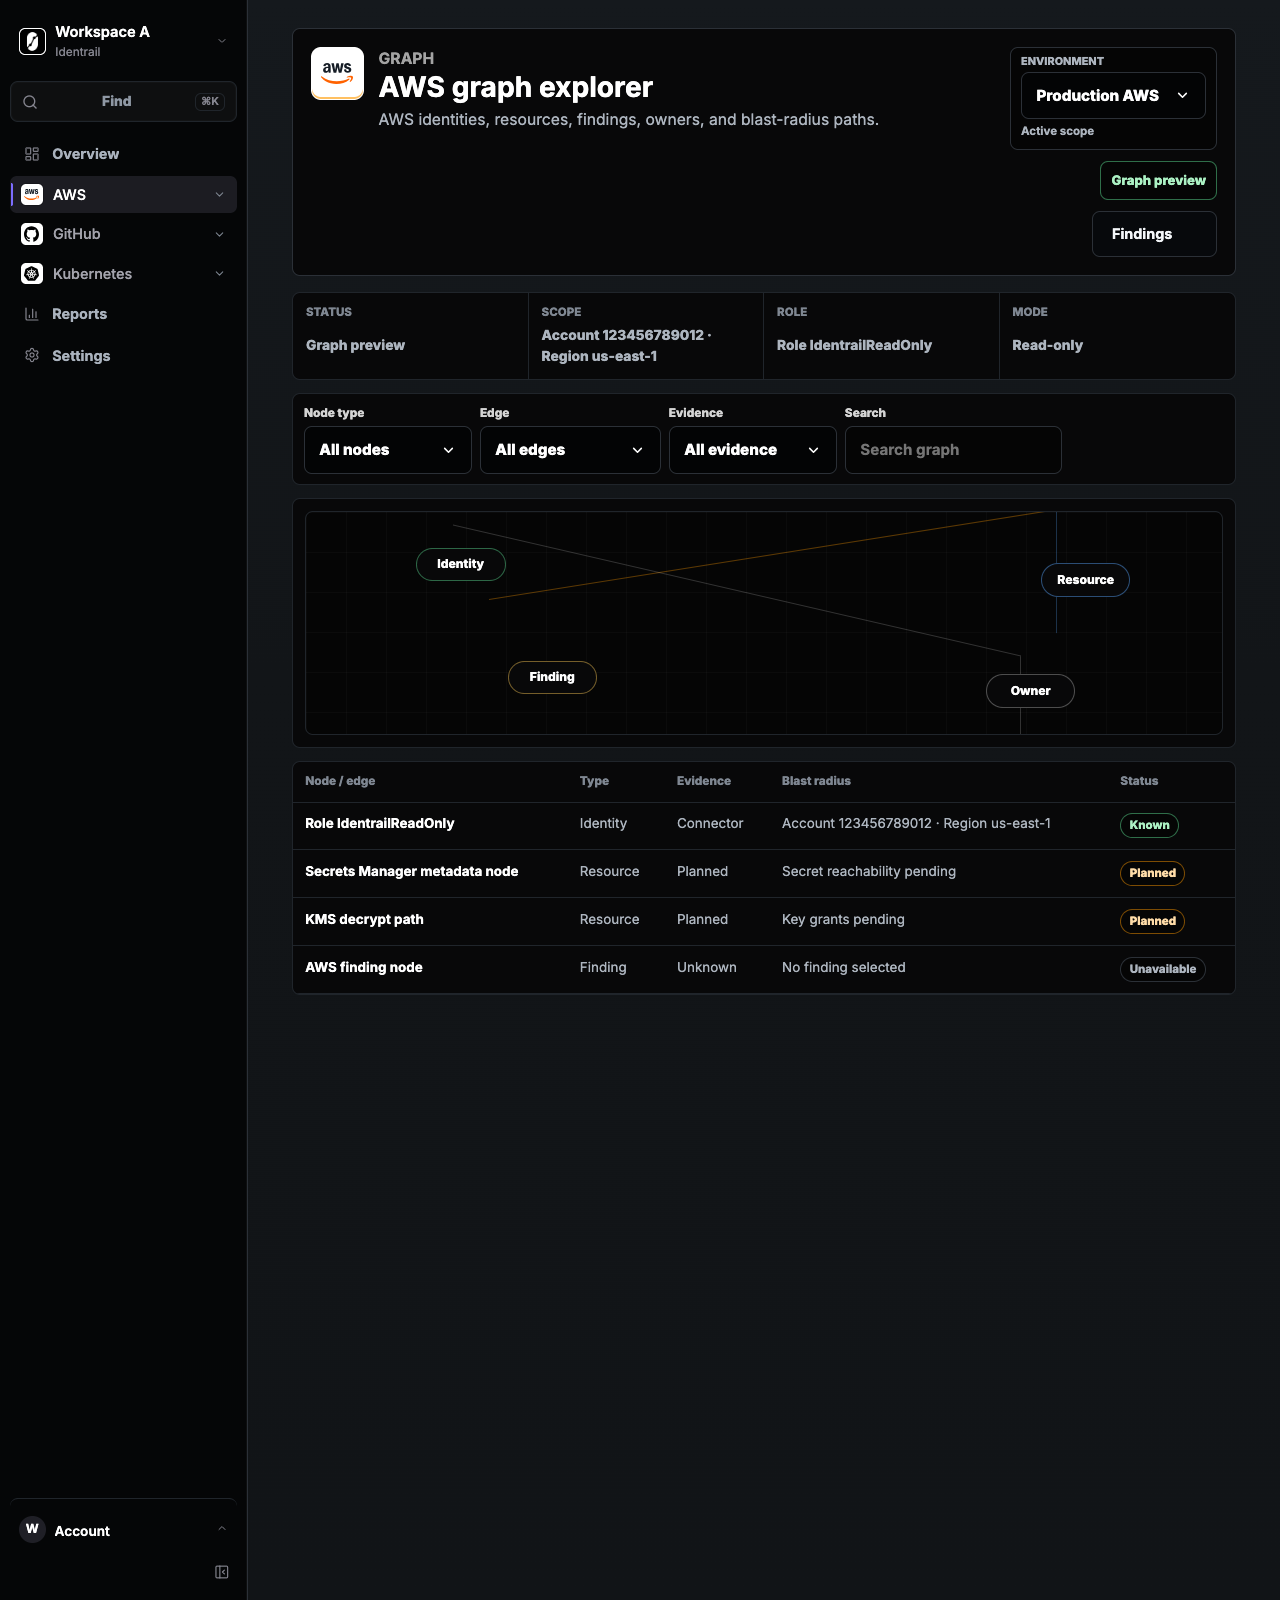
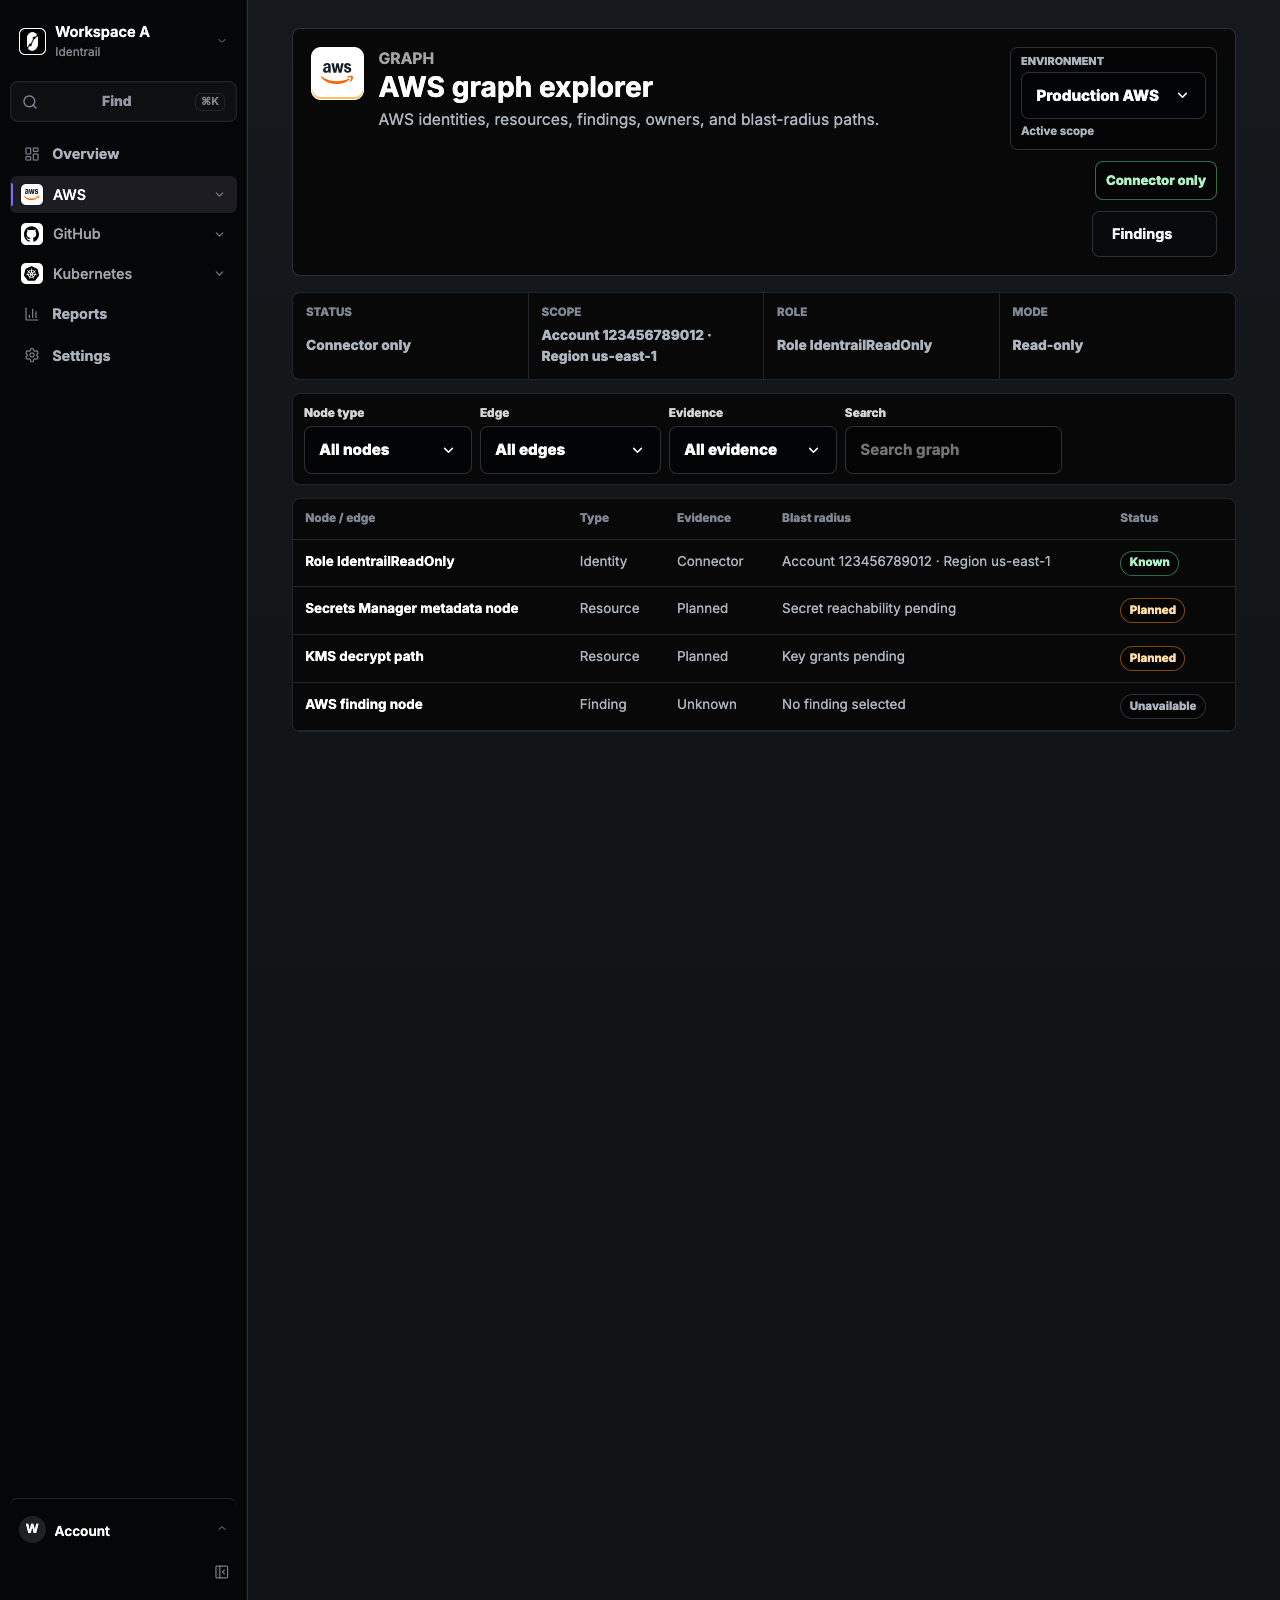
Remove AWS graph placeholder

diff --git a/web/src/styles.css b/web/src/styles.css
@@ -23246,84 +23246,6 @@ html[data-theme='light'] .idt-app-shell-screen select {
   padding: 1rem;
 }
 
-.idt-aws-risk-graph-shell {
-  border: 1px solid var(--app-border-soft);
-  border-radius: 8px;
-  padding: 0.75rem;
-  background: #080809;
-}
-
-.idt-aws-risk-graph-canvas {
-  position: relative;
-  min-height: 14rem;
-  overflow: hidden;
-  border: 1px solid var(--app-border-soft);
-  border-radius: 8px;
-  background:
-    linear-gradient(rgba(255, 255, 255, 0.025) 1px, transparent 1px) 0 0 / 2.5rem 2.5rem,
-    linear-gradient(90deg, rgba(255, 255, 255, 0.025) 1px, transparent 1px) 0 0 / 2.5rem 2.5rem,
-    #050505;
-}
-
-.idt-aws-risk-graph-canvas::before,
-.idt-aws-risk-graph-canvas::after {
-  content: '';
-  position: absolute;
-  inset: 19% 18% 25% 20%;
-  border-top: 1px solid rgba(255, 153, 0, 0.35);
-  border-right: 1px solid rgba(88, 166, 255, 0.28);
-  transform: skewY(-9deg);
-}
-
-.idt-aws-risk-graph-canvas::after {
-  inset: 35% 22% 18% 16%;
-  border-color: rgba(255, 255, 255, 0.18);
-  transform: skewY(13deg);
-}
-
-.idt-aws-risk-graph-canvas span {
-  position: absolute;
-  z-index: 1;
-  display: inline-flex;
-  align-items: center;
-  justify-content: center;
-  min-width: 5.6rem;
-  min-height: 2.1rem;
-  border: 1px solid var(--app-border);
-  border-radius: 999px;
-  padding: 0.2rem 0.65rem;
-  background: #080809;
-  color: #ffffff;
-  font-size: 0.76rem;
-  font-weight: 900;
-  text-align: center;
-  white-space: nowrap;
-}
-
-.idt-aws-risk-graph-canvas .is-identity {
-  top: 16%;
-  left: 12%;
-  border-color: rgba(88, 214, 141, 0.46);
-}
-
-.idt-aws-risk-graph-canvas .is-resource {
-  top: 23%;
-  right: 10%;
-  border-color: rgba(88, 166, 255, 0.44);
-}
-
-.idt-aws-risk-graph-canvas .is-finding {
-  bottom: 18%;
-  left: 22%;
-  border-color: rgba(245, 196, 81, 0.46);
-}
-
-.idt-aws-risk-graph-canvas .is-owner {
-  right: 16%;
-  bottom: 12%;
-  border-color: rgba(255, 255, 255, 0.28);
-}
-
 html[data-theme='light'] .idt-app-console-layout .idt-permission-preview-modal,
 html[data-theme='light'] .idt-app-console-layout .idt-permission-preview-list article,
 html[data-theme='light'] .idt-app-console-layout .idt-permission-tier {
@@ -23411,14 +23333,6 @@ html[data-theme='light'] .idt-app-console-layout .idt-permission-tier .idt-badge
     border-top: 1px solid var(--app-border-soft);
   }
 
-	  .idt-aws-risk-graph-canvas {
-	    min-height: 15rem;
-	  }
-
-  .idt-aws-risk-graph-canvas span {
-    min-width: 4.8rem;
-    font-size: 0.72rem;
-  }
 }
 
 .idt-visually-hidden {

diff --git a/web/src/productShell.tsx b/web/src/productShell.tsx
@@ -3821,7 +3821,7 @@ const AWS_RISK_OPERATION_PAGE_COPY: Record<AWSRiskOperationRouteID, AWSRiskOpera
     title: 'AWS graph explorer',
     eyebrow: 'Graph',
     description: 'AWS identities, resources, findings, owners, and blast-radius paths.',
-    statusLabel: 'Graph preview',
+    statusLabel: 'Connector only',
     currentCapability: 'Connector role anchor.',
     plannedCapability: 'Collected graph edges.',
     nextAction: 'Collect graph edges.',
@@ -4387,14 +4387,6 @@ function AWSGraphExplorerContent({
   return (
     <>
       <AWSRiskOperationFilterSet routeID="graph" filters={filters} onChange={onFiltersChange} />
-      <section className="idt-aws-risk-graph-shell" aria-label="AWS graph explorer">
-        <div className="idt-aws-risk-graph-canvas" aria-hidden="true">
-          <span className="is-identity">Identity</span>
-          <span className="is-resource">Resource</span>
-          <span className="is-finding">Finding</span>
-          <span className="is-owner">Owner</span>
-        </div>
-      </section>
       <DomainDataTable
         label="AWS graph nodes and edges"
         rows={displayedRows}

diff --git a/web/src/App.test.tsx b/web/src/App.test.tsx
@@ -1493,7 +1493,7 @@ describe('App', () => {
 
   it.each([
     ['runtime', /AWS runtime evidence/i, /Not ingesting/i],
-    ['graph', /AWS graph explorer/i, /Graph preview/i],
+    ['graph', /AWS graph explorer/i, /Connector only/i],
     ['findings', /AWS findings/i, /No findings/i],
     ['remediation', /AWS remediation/i, /No cases/i],
     ['governance', /AWS governance/i, /Advisory only/i]
